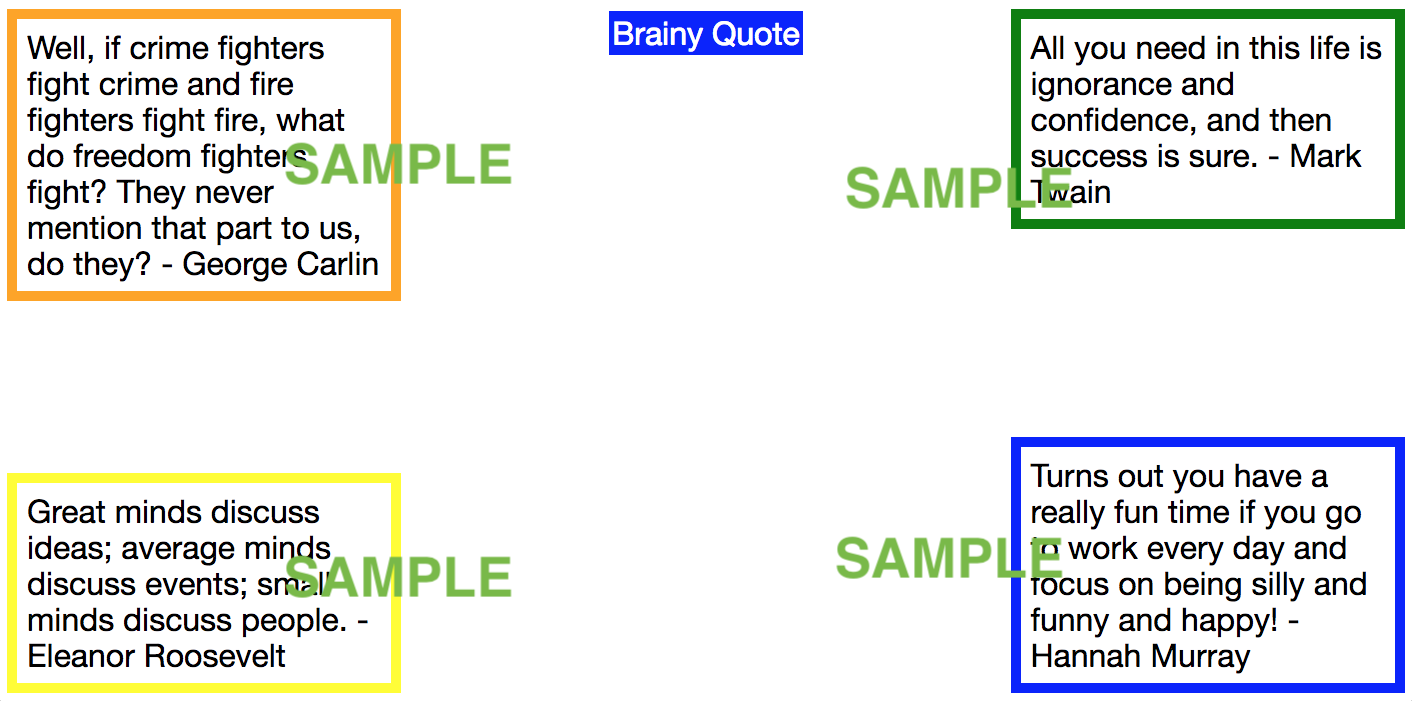
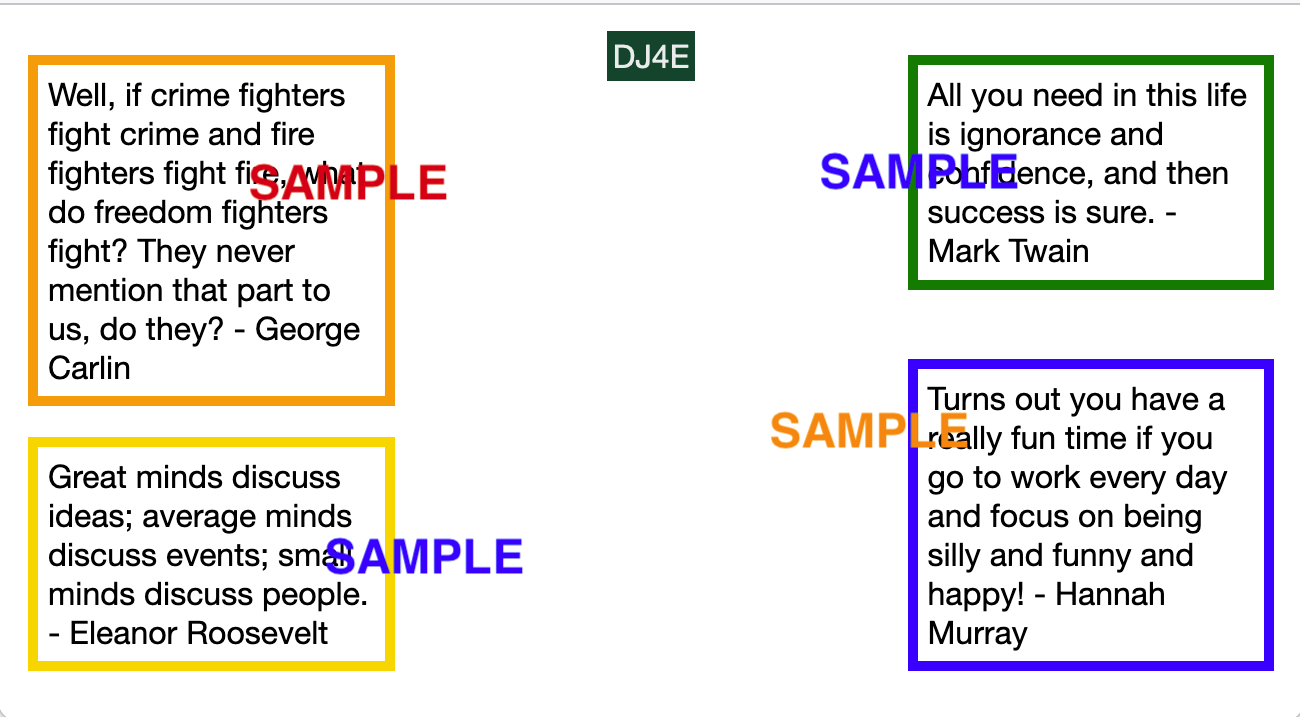
Updates

diff --git a/assn/css/index.htm b/assn/css/index.htm
@@ -26,8 +26,8 @@ Great minds discuss ideas; average minds discuss events;
 small minds discuss people. - Eleanor Roosevelt
 </div>
 <p id="link">
-<a href="https://www.brainyquote.com/" target="_blank">
-Brainy Quote
+<a href="https://www.dj4e.com/" target="_blank">
+DJ4E
 </a>
 </p>
 </body>

diff --git a/assn/css/index.php b/assn/css/index.php
@@ -74,16 +74,14 @@ to get the
 boxes to be "sticky" to the corners of the screen even when you resize.  Make the boxes
 width be <b>25%</b> so the width changes as you resize your browser.</p></li>
 <li><p>Center the link at the top of the page.  Use your developer console / inspect element
-feature of your browser to visit <a href="https://www.brainyquote.com/" target="_blank">
-https://www.brainyquote.com/</a> and figure out the background color, font, and text color
-they are using in the top navigation bar and replicate that exactly for the link to BrainyQuote
+feature of your browser to visit <a href="https://www.dj4e.com/" target="_blank">
+https://www.dj4e.com/</a> and figure out the background color, font, and text color
+used in the top navigation bar and replicate for the link to DJ4E
 in your <b>index.htm</b>.
 </p></li>
 You might find that using the
 <a href="https://www.w3schools.com/css/css_border_shorthand.asp" target="_blank">border shortcut</a>
 in your CSS instead of the separate "border" values makes the CSS validtor "happier".
-<li><p>
-</p></li>
 <li><p>Your CSS must pass the validator at:
 <pre>
 <a href="https://jigsaw.w3.org/css-validator" target="_blank">https://jigsaw.w3.org/css-validator</a>
@@ -104,25 +102,6 @@ foreach($json->parts as $part ) {
 
 
 <h1>Sample Screen Shots</h1>
-<p>
-Using inspect element on the
-<a href="https://www.brainyquote.com/" target="_blank">
-https://www.brainyquote.com/</a>.
-<center>
-<a href="04-brainy-inspect.png" target="_blank">
-<img src="04-brainy-inspect.png" width="80%" border="2px"></a>
-</center>
-</p>
-<p>
-Looking at
-<a href="https://www.brainyquote.com/" target="_blank">
-https://www.brainyquote.com/</a> using Chris Pedrick's
-Web Developer add on to turn off all styles:
-<center>
-<a href="05-brainy-no-css.png" target="_blank">
-<img src="05-brainy-no-css.png" width="80%" border="2px"></a>
-</center>
-</p>
 <p>Passing the CSS validator:
 <p>
 <center>
